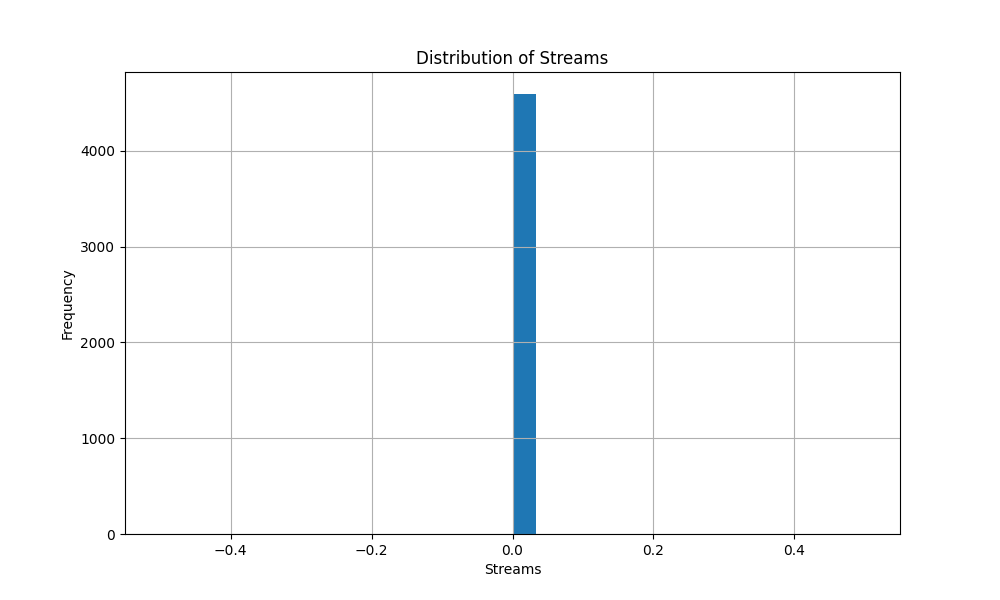
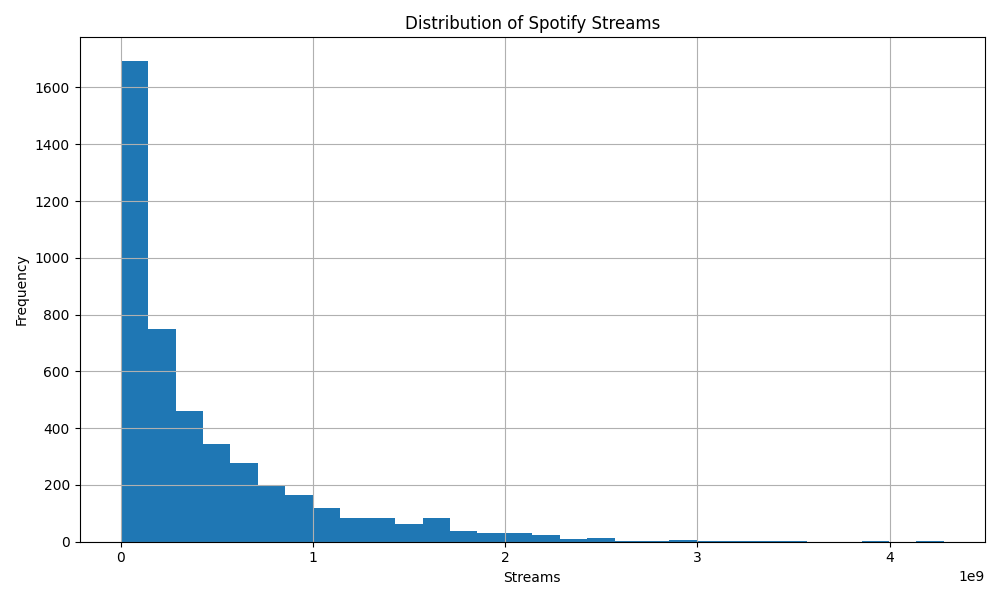
message

Changed region(s): [[0.0, 0.03, 0.899, 0.99], [0.961, 0.93, 0.992, 0.99], [0.868, 0.9, 0.899, 0.93]]

diff --git a/templates/index.html b/templates/index.html
@@ -8,18 +8,18 @@
 
 </head>
 <body>
-  <h1>Spotify Data Analysis</h1>
+  <h1><b>Spotify Data Analysis</b></h1>
 
-  <h2>Data Preview</h2>
+  <h2><i>Data Preview</i></h2>
   <div>{{ data_table | safe }}</div>
 
-  <h2>Summary Statistics</h2>
+  <h2><i>Summary Statistics</i></h2>
   <div>{{ stats_table | safe }}</div>
 
-  <h2>Data Info</h2>
+  <h2><i>Data Info</i></h2>
   <pre class="info-output">{{ info_output }}</pre>
 
-  <h2>Streams Distribution</h2>
+  <h2><i>Streams Distribution</i></h2>
   <img src="{{ url_for('static', filename='streams_histogram.png') }}" alt="Streams Histogram" />
 </body>
 </html>

diff --git a/spotifydata.py b/spotifydata.py
@@ -1,47 +1,85 @@
-from flask import Flask, render_template 
+from flask import Flask, render_template
 import pandas as pd
 import matplotlib.pyplot as plt
+from scipy.stats import pearsonr
 import io
 import matplotlib
 import os
 
-print("Current working directory:", os.getcwd())
-print("Files in cwd:", os.listdir())
-print("Files in templates:", os.listdir('templates'))
-
-# Use 'Agg' backend for environments without a display (like Codespaces)
+# Use 'Agg' backend for environments without a display (e.g. Codespaces)
 matplotlib.use('Agg')
+
+# Debugging: Check directories
+print("Current working directory:", os.getcwd()) # returns current working directory, this helps understand where the script is looking for files like templates, static assets, etc. 
+print("Files in cwd:", os.listdir()) # lists all files and folders in the current working directory, this helps confirm wheter specific folders are there
+try:
+    print("Files in templates:", os.listdir('templates'))
+except FileNotFoundError:
+    print("'templates' directory not found.")
 
 app = Flask(__name__)
 
 def clean_spotify_data():
     url = 'https://github.com/Yusuhasn/Spotify-Data-Analysis/raw/refs/heads/main/Most%20Streamed%20Spotify%20Songs%202024.csv'
     df = pd.read_csv(url, encoding='latin1')
-    #print(df.columns.tolist())
 
-    # Clean columns exactly as in original CSV
-    df['Spotify Streams'] = pd.to_numeric(df['Spotify Streams'], errors='coerce').fillna(0)
+    # Clean column headers (just in case)
+    df.columns = df.columns.str.strip()
+
+    # Clean and convert 'Spotify Streams'
+    if 'Spotify Streams' in df.columns:
+        df['Spotify Streams'] = (
+            df['Spotify Streams']
+            .astype(str)
+            .str.replace(',', '', regex=False)
+            .str.extract(r'(\d+)', expand=False)
+            .astype(float)
+        )
+    else:
+        print("❗ 'Spotify Streams' column not found!")
+
+    # Clean other columns
     df['Artist'] = df['Artist'].str.strip()
     df['Release Date'] = pd.to_datetime(df['Release Date'], errors='coerce')
 
-    # Drop rows missing critical info (like Track Name, Artist, Streams)
-    df = df.dropna(subset=['Track', 'Artist', 'Spotify Streams'])
+    # Drop missing or duplicate rows
+    df = df.dropna(subset=['Track', 'Artist', 'All Time Rank', 'Spotify Streams'])
     df = df.drop_duplicates()
 
-    # Create static folder if missing
+    insights = {}
+    playlist_analysis = {}
+
+    # Correlation and analysis
+    if 'Spotify Playlist Count' in df.columns:
+        df['Spotify Playlist Count'] = pd.to_numeric(df['Spotify Playlist Count'], errors='coerce')
+        corr_df = df[['Spotify Playlist Count', 'Spotify Streams']].dropna()
+
+        if len(corr_df) > 1:
+            playlist_corr, _ = pearsonr(
+                corr_df['Spotify Playlist Count'],
+                corr_df['Spotify Streams']
+            )
+            insights['playlist_correlation'] = playlist_corr
+
+            # Basic analysis on top 10%
+            top_10_percent = corr_df.nlargest(int(len(corr_df) * 0.1), 'Spotify Streams')
+            playlist_analysis['top_10_playlists'] = top_10_percent['Spotify Playlist Count'].mean()
+
+    # Create static folder if not exists
     if not os.path.exists('static'):
         os.makedirs('static')
 
-    # Plot and save histogram
+    # Generate histogram plot
     plt.figure(figsize=(10, 6))
     df['Spotify Streams'].hist(bins=30)
-    plt.title('Distribution of Streams')
+    plt.title('Distribution of Spotify Streams')
     plt.xlabel('Streams')
     plt.ylabel('Frequency')
+    plt.tight_layout()
     plt.savefig('static/streams_histogram.png')
     plt.close()
 
-    # Capture df.info() output as string
+    # Capture df.info() output
     buffer = io.StringIO()
     df.info(buf=buffer)
     info_str = buffer.getvalue()
@@ -53,15 +91,18 @@ def clean_spotify_data():
 def home():
     df, info_str = clean_spotify_data()
 
-    # Use original column names exactly here too
-    table_html = df[['Track', 'Artist', 'Spotify Streams']].head().to_html(classes='data')
-    summary_html = df.describe().to_html(classes='data')
+    numeric_cols = ['All Time Rank', 'Spotify Streams']
+    # Create HTML tables for web
+    table_html = df[['Track', 'Artist', 'All Time Rank', 'Spotify Streams']].head().to_html(classes='data')
+    summary_html = df[['Track', 'Artist', 'All Time Rank', 'Spotify Streams']].head().describe().to_html(classes='data')
+
 
     return render_template(
         'index.html',
         data_table=table_html,
         stats_table=summary_html,
-        info_output=info_str
+        info_output=info_str,
+        plot_path='static/streams_histogram.png'
     )
 
 if __name__ == '__main__':
